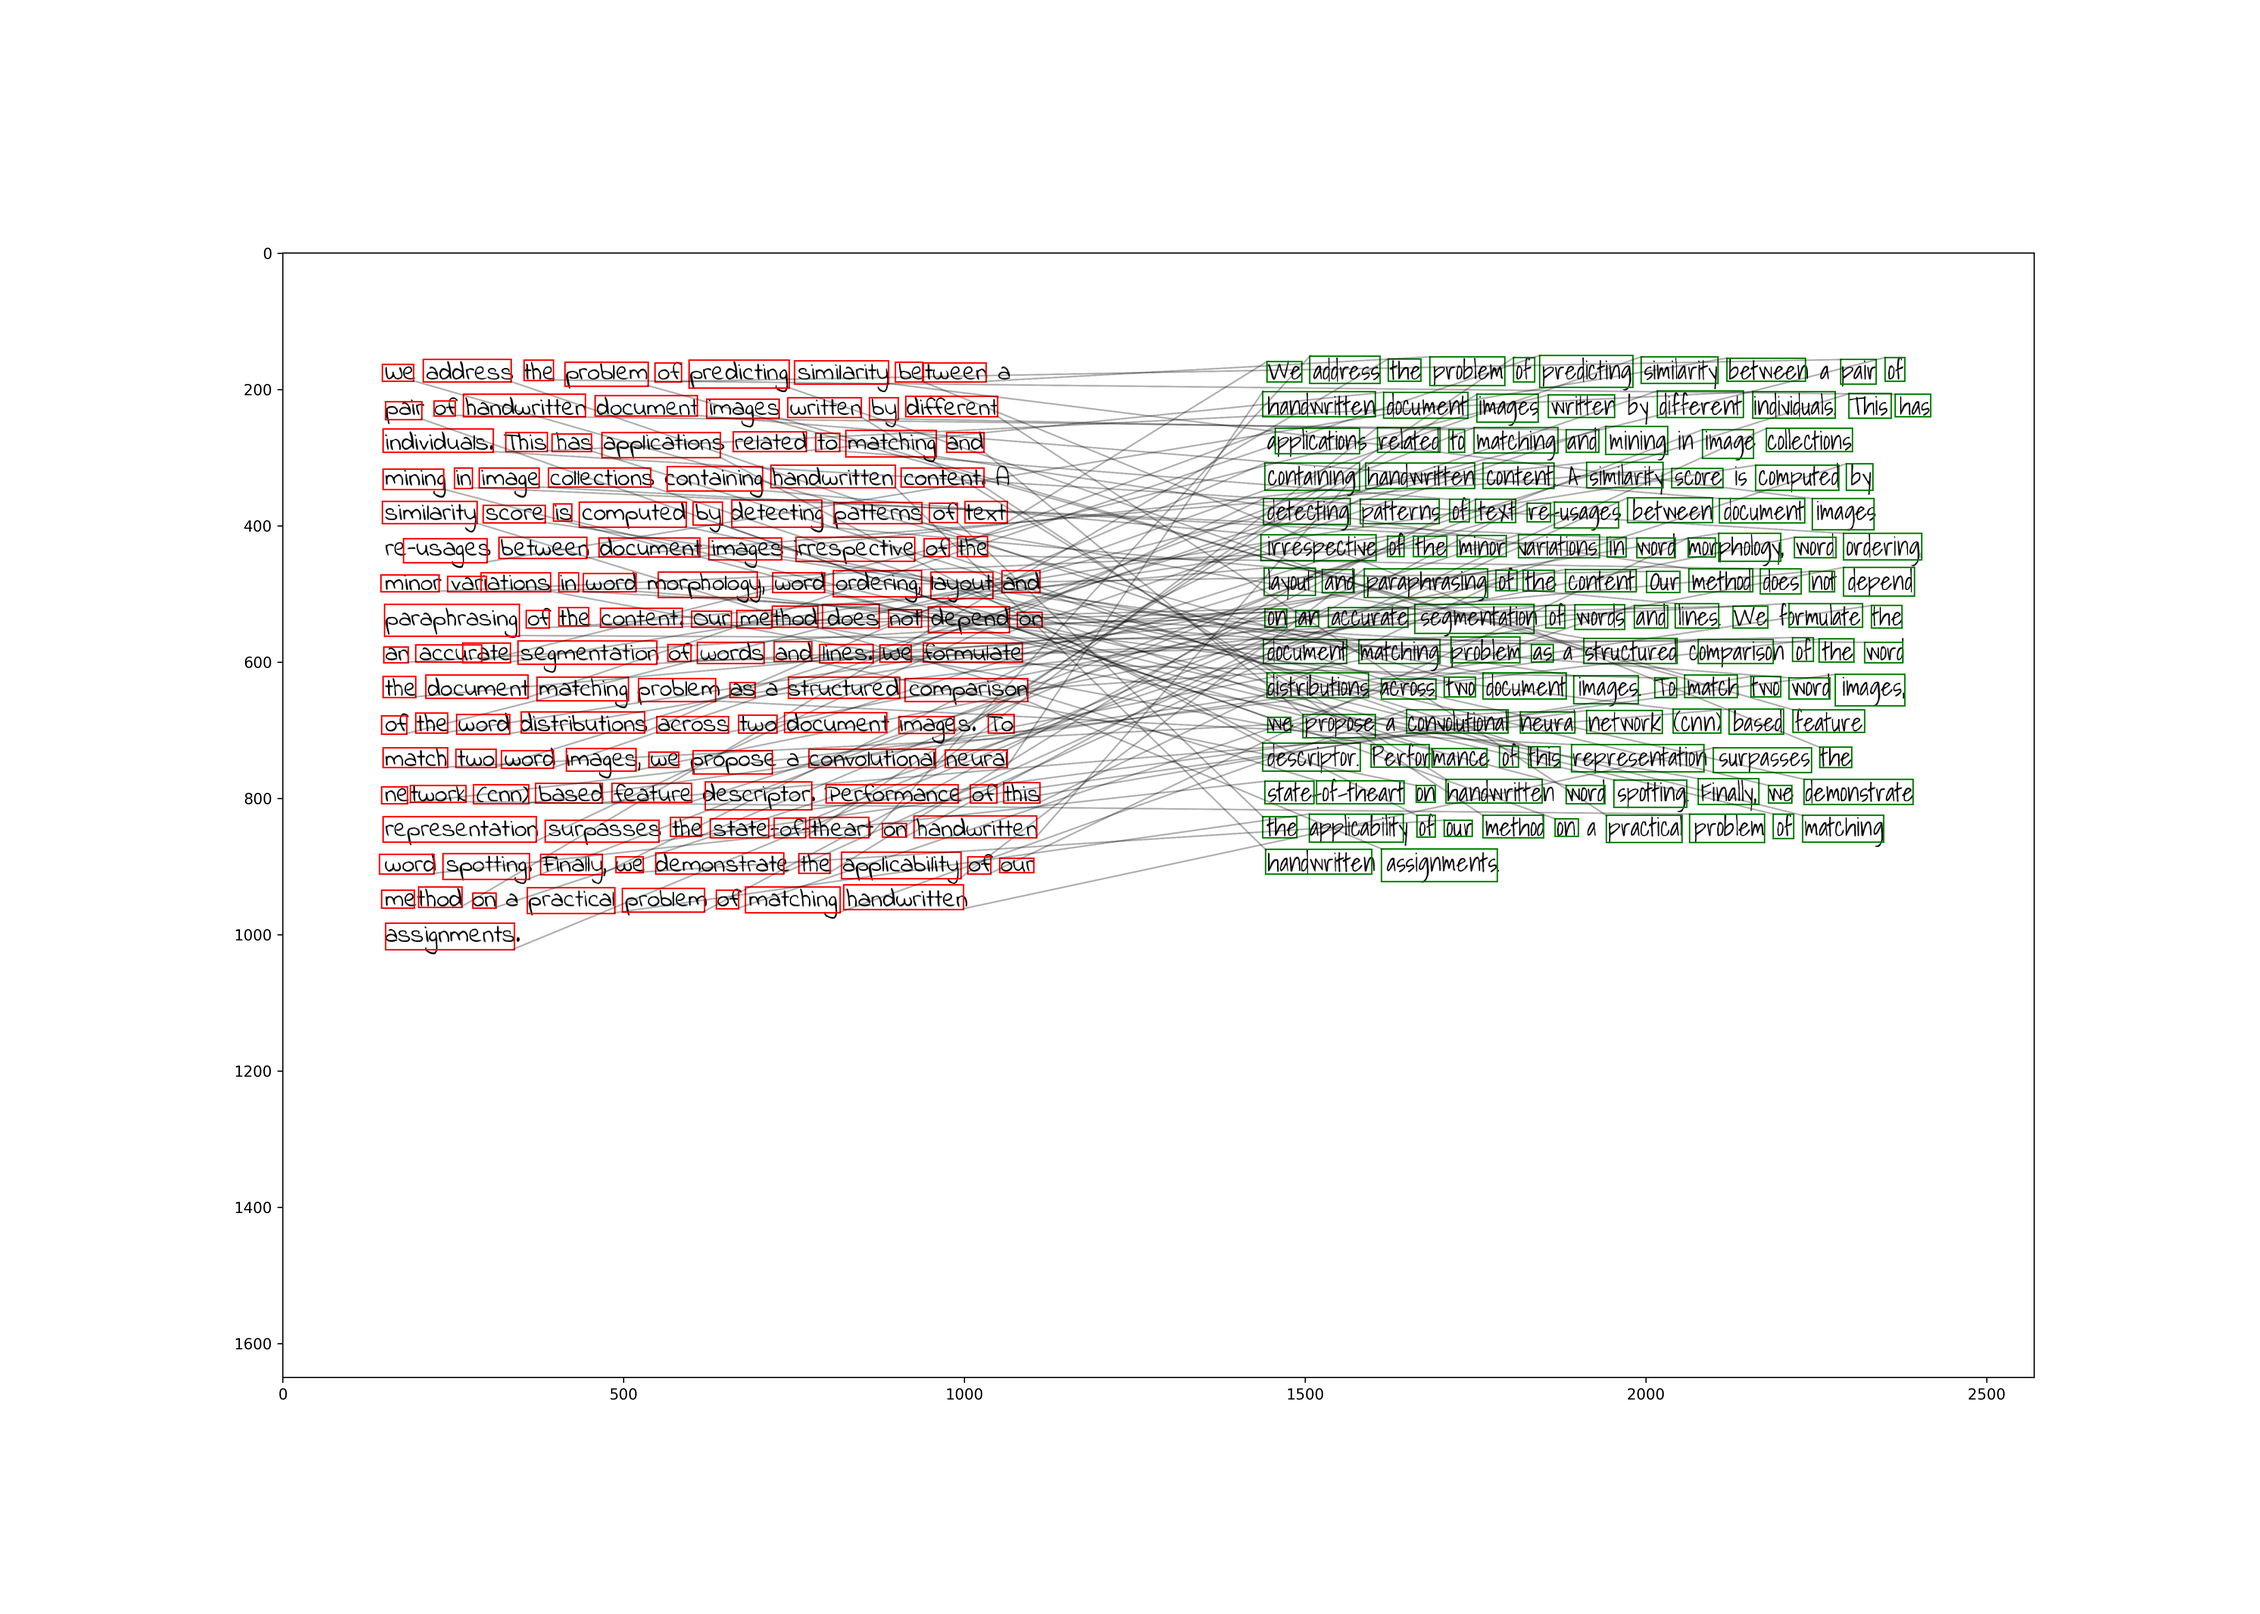
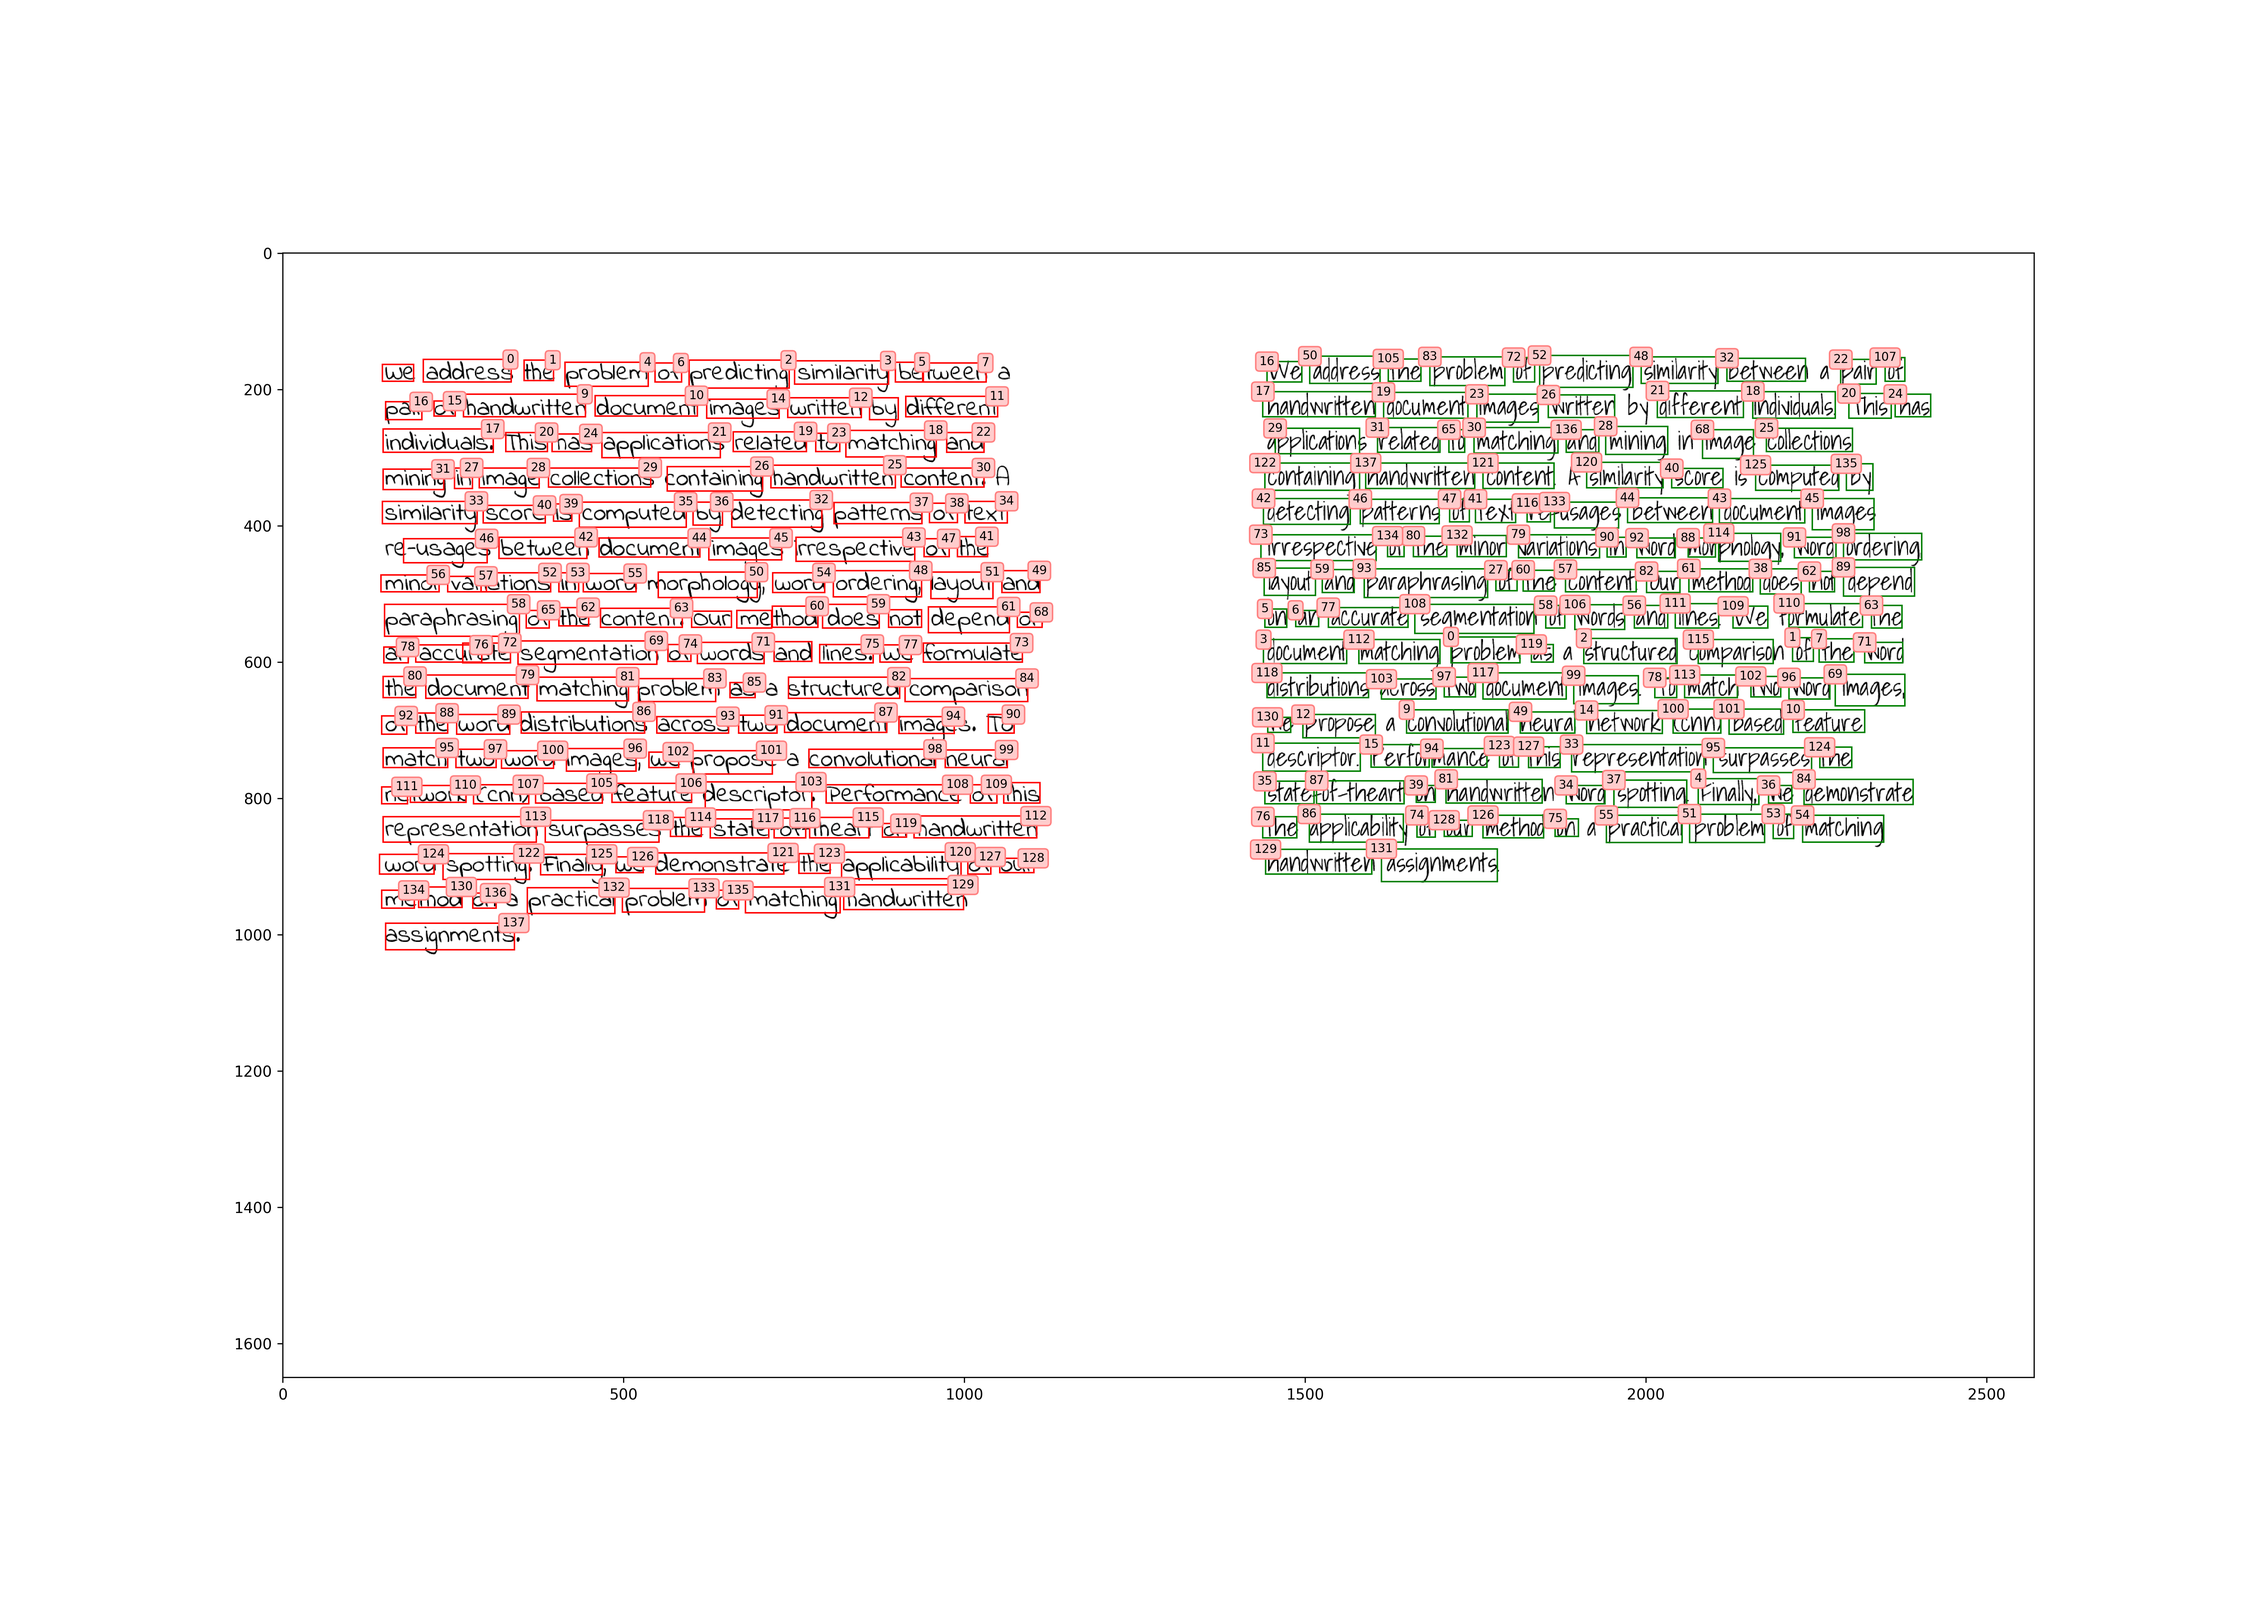
Changing viz. Need to look into hwnet

Changed region(s): [[0.1556, 0.2178, 0.84, 0.5911]]

diff --git a/hwmatcher/main.py b/hwmatcher/main.py
@@ -18,7 +18,7 @@ from east import EASTWrapper
 from utils import HWNetInferenceEngine
 import torch
 from torch.nn.modules.distance import CosineSimilarity
-from munkres import Munkres
+from munkres import Munkres, make_cost_matrix
 import matplotlib
 matplotlib.use('Agg')
 from matplotlib import pyplot as plt
@@ -65,15 +65,33 @@ def plot(a, b, indices):
     draw(a.bboxes, 0, 0, color='r')
     draw(b.bboxes, offset_x, offset_y, color='g')
 
-    def draw_arrows(ba, bb):
-        dx = offset_x + bb.x - ba.X
-        dy = offset_y + bb.y - ba.Y
-        plt.arrow(ba.X, ba.Y, dx, dy, alpha=0.3)
+    # def draw_arrows(ba, bb):
+    #     dx = offset_x + bb.x - ba.X
+    #     dy = offset_y + bb.y - ba.Y
+    #     plt.arrow(ba.X, ba.Y, dx, dy, alpha=0.3)
+
+    def draw_text_labels(index, ba, bb):
+
+        def collect(**kwargs):
+            return kwargs
+
+
+        kw = collect(
+            ha="center", va="center",
+            bbox=dict(boxstyle="round",
+            ec=(1., 0.5, 0.5),
+            fc=(1., 0.8, 0.8),)
+        )
+                          
+        plt.text(ba.X, ba.y, index[0], fontsize=8, **kw)
+        plt.text(offset_x + bb.x, offset_y + bb.y, index[0], fontsize=8, **kw)
 
     # indices = random.sample(indices, 25)
     for index in indices:
         f, s = index
-        draw_arrows(a.bboxes[f], b.bboxes[s])
+        # s, f = index
+        # draw_arrows(a.bboxes[f], b.bboxes[s])
+        draw_text_labels(index, a.bboxes[f], b.bboxes[s])
 
     plt.savefig('data/matching.png')
 
@@ -90,6 +108,8 @@ class Comparator:
         Sample = recordtype('Sample', 'image bboxes features')
         def sample(image):
             _image, unit_bboxes = self.eastw.predict(image)
+            H, W, *_ = image.shape
+            unit_bboxes = sorted(unit_bboxes, key=lambda b: b.y * W + b.x) 
             return Sample(image=image, bboxes=unit_bboxes, features=None)
 
         a = sample(image_A)
@@ -97,10 +117,11 @@ class Comparator:
         a.features = self.hwnet(a)
         b.features = self.hwnet(b)
         with torch.no_grad():
-            matrix = self.compute_cost_matrix(a.features, b.features)
-            matrix = 1 - matrix
+            matrix = self.compute_cosine_matrix(a.features, b.features)
+            # matrix = 1 - matrix
+            matrix = matrix.tolist()
+            matrix = make_cost_matrix(matrix)
 
-        matrix = matrix.tolist()
         m = Munkres()
         indexes = m.compute(matrix)
         # total = 0
@@ -114,7 +135,7 @@ class Comparator:
         plot(a, b, indexes)
             
 
-    def compute_cost_matrix(self, A, B):
+    def compute_cosine_matrix(self, A, B):
         similarity = CosineSimilarity()
         num_A, _ = A.size()
         num_B, _ = B.size()
